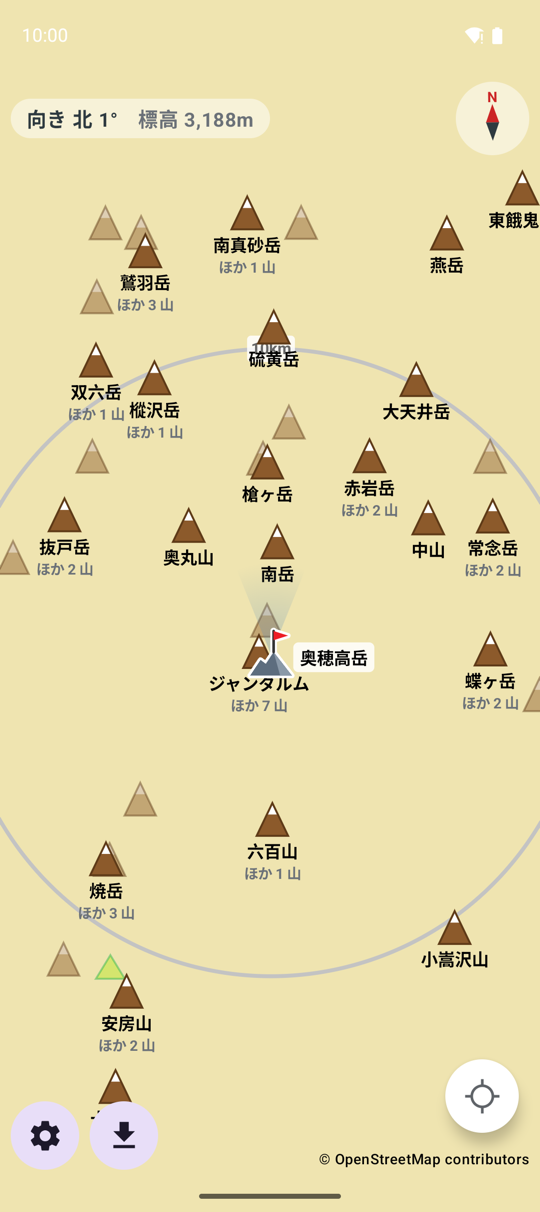
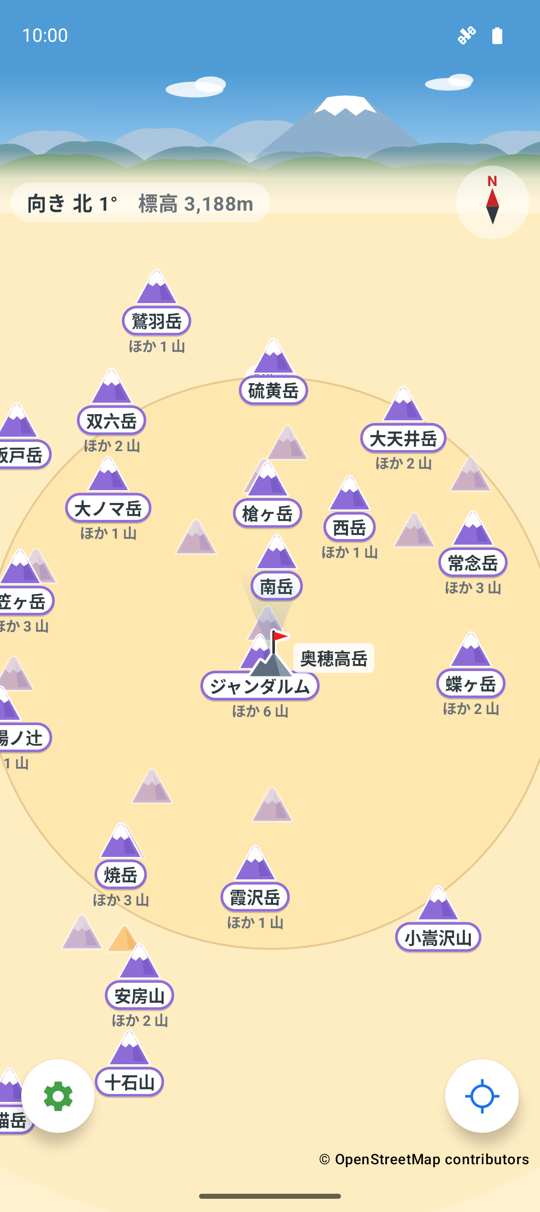
docs: README の見出しを「山むき」とアイコンにし、スクリーンショットを 0.5.0 の画面に撮り直す (#119)
- README の見出しを「yamamuki」から「山むき」にし、先頭にアプリアイコンを
  添える（docs/images/app-icon.png。iOS の AppIcon を 192 四方に縮めたもの）。
  アイコンは幅 40 で見出しの行の上端にそろえ、文字と中心の高さを合わせる。
- 冒頭の 2 枚（ヘディングアップと手動位置モード）を、パステル調の方位盤と
  空のヘッダーが入った 0.5.0 の画面に撮り直す。撮影の条件（場所・向き・
  表示範囲・端末）は前回と同じ。
- ヘディングアップの画像の説明文を、写っている山（中岳・北穂高岳）に合わせる。

検証:
- 成功: .github/scripts/check-text-format.sh、.github/scripts/check-ui-strings.py
- 成功: Android エミュレータ（AVD yamamuki_api36、1080×2424）で 0.5.0 の
  配布版を使って撮影し、540×1212 に縮めたことを確認
- 成功: GitHub の README の表示で、アイコンと文字の中心の高さが一致することを確認

diff --git a/README.md b/README.md
@@ -1,4 +1,4 @@
-# yamamuki
+# <img src="docs/images/app-icon.png" width="40" alt="" align="top"> 山むき
 
 スマホを向けた方向に見える山を、山名付きで表示する Android / iOS アプリ。山をタップすると標高などの詳細が見られる。
 
@@ -8,7 +8,7 @@
 
 | ヘディングアップモード | 手動位置モード |
 |---|---|
-| <img src="docs/images/heading-up-kamikochi.png" width="270" alt="上高地から北へ向けた方位盤。槍ヶ岳・南岳・奥穂高岳などが並ぶ"> | <img src="docs/images/manual-okuhotaka.png" width="270" alt="奥穂高岳の山頂を中心にした地図。槍ヶ岳・常念岳・焼岳などが周りに並ぶ"> |
+| <img src="docs/images/heading-up-kamikochi.png" width="270" alt="上高地から北へ向けた方位盤。槍ヶ岳・中岳・北穂高岳・奥穂高岳などが並ぶ"> | <img src="docs/images/manual-okuhotaka.png" width="270" alt="奥穂高岳の山頂を中心にした地図。槍ヶ岳・常念岳・焼岳などが周りに並ぶ"> |
 
 ## 構成
 
